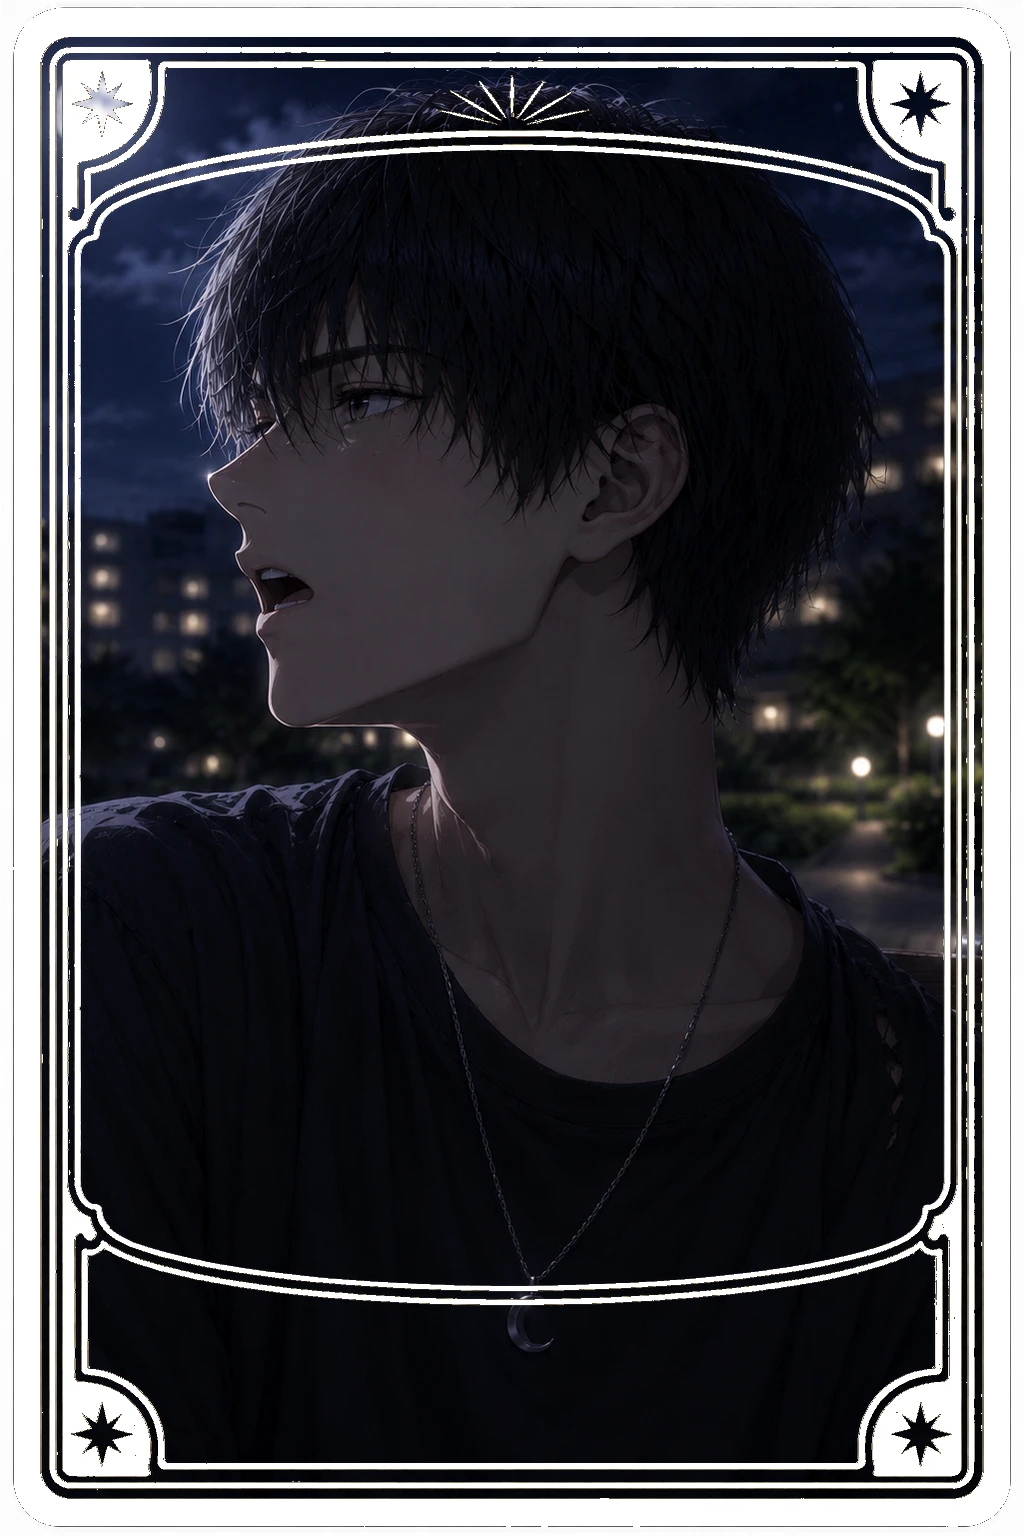
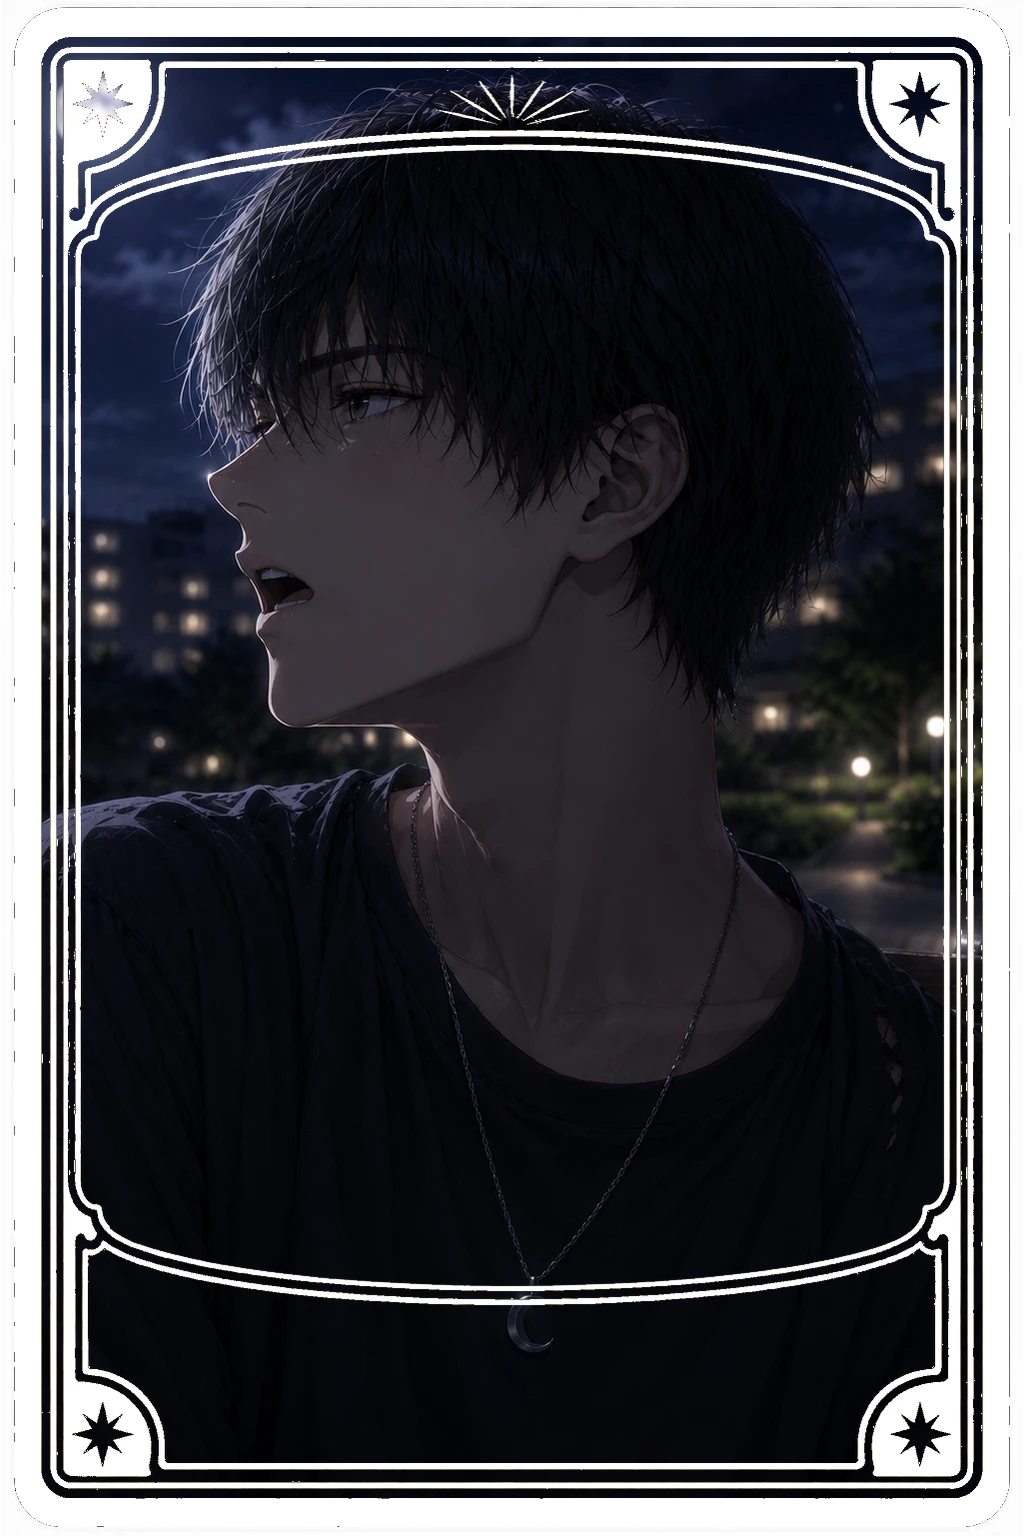
Restore glow effects; plain webp conversion from 完成 PNGs

Changed region(s): [[0.9062, 0.0312, 0.9688, 0.9688], [0.0312, 0.0312, 0.0938, 0.9688]]

diff --git a/room/undertone/index.html b/room/undertone/index.html
@@ -377,13 +377,13 @@
     }
     .tarot-back img {
       width:100%; height:100%; object-fit:contain; display:block;
-      filter: drop-shadow(0 6px 18px rgba(0,0,0,0.75));
+      filter: drop-shadow(0 0 10px rgba(248,113,113,0.7)) drop-shadow(0 0 28px rgba(248,113,113,0.4)) drop-shadow(0 0 50px rgba(248,113,113,0.2));
     }
 
     .tarot-face {
       background:transparent;
       border-radius:16px;
-      box-shadow:0 8px 32px rgba(0,0,0,0.7), 0 2px 8px rgba(0,0,0,0.5);
+      box-shadow:0 0 40px rgba(196,181,253,0.35), 0 0 80px rgba(196,181,253,0.12);
       transform:rotateY(180deg);
       overflow:hidden;
       padding:0;
@@ -1589,7 +1589,7 @@ function submitUtPw() {
       <!-- カード枠 -->
       <div id="celtic-b-card" style="width:100%;border:1px solid rgba(255,255,255,0.1);border-radius:20px;background:rgba(255,255,255,0.025);padding:32px 28px;cursor:pointer;transition:border-color 0.3s;" onclick="celticBNext()">
         <div style="display:flex;flex-direction:column;align-items:center;gap:20px;">
-          <img id="celtic-b-img" src="" alt="" style="width:140px;height:210px;object-fit:contain;filter:drop-shadow(0 6px 18px rgba(0,0,0,0.75));flex-shrink:0;">
+          <img id="celtic-b-img" src="" alt="" style="width:140px;height:210px;object-fit:contain;filter:drop-shadow(0 0 16px rgba(167,139,250,0.6)) drop-shadow(0 0 40px rgba(124,58,237,0.3));flex-shrink:0;">
           <div style="text-align:center;width:100%;">
             <p id="celtic-b-pos" style="font-family:'Cormorant Garamond',serif;font-size:10px;letter-spacing:4px;color:#475569;margin-bottom:12px;"></p>
             <p id="celtic-b-name" style="font-family:'Noto Serif JP',serif;font-size:20px;color:#e2e8f0;letter-spacing:3px;margin-bottom:6px;"></p>
@@ -4428,7 +4428,7 @@ function submitUtPw() {
       front.style.cssText = 'position:absolute;inset:0;backface-visibility:hidden;';
       var bImg = document.createElement('img');
       bImg.src = 'card_back_b.webp';
-      bImg.style.cssText = 'width:100%;height:100%;object-fit:contain;display:block;filter:drop-shadow(0 4px 12px rgba(0,0,0,0.6));transition:filter 0.6s;';
+      bImg.style.cssText = 'width:100%;height:100%;object-fit:contain;display:block;filter:drop-shadow(0 0 8px rgba(167,139,250,0.4));transition:filter 0.6s;';
       front.appendChild(bImg);
       // 裏面（フリップ後に見える面）
       var back = document.createElement('div');
@@ -4478,10 +4478,10 @@ function submitUtPw() {
           inn.style.transform = 'rotateY(180deg)';
           var fImgEl = document.querySelector('.celtic-fimg-' + idx);
           if (fImgEl) {
-            fImgEl.style.filter = 'drop-shadow(0 6px 20px rgba(0,0,0,0.85))';
+            fImgEl.style.filter = 'drop-shadow(0 0 20px rgba(167,139,250,0.95)) drop-shadow(0 0 40px rgba(124,58,237,0.6)) drop-shadow(0 0 70px rgba(124,58,237,0.3))';
             setTimeout(function() {
               var fi = document.querySelector('.celtic-fimg-' + idx);
-              if (fi) fi.style.filter = 'drop-shadow(0 6px 18px rgba(0,0,0,0.75))';
+              if (fi) fi.style.filter = 'drop-shadow(0 0 8px rgba(167,139,250,0.5))';
             }, 900);
           }
           if (idx === 9) {
